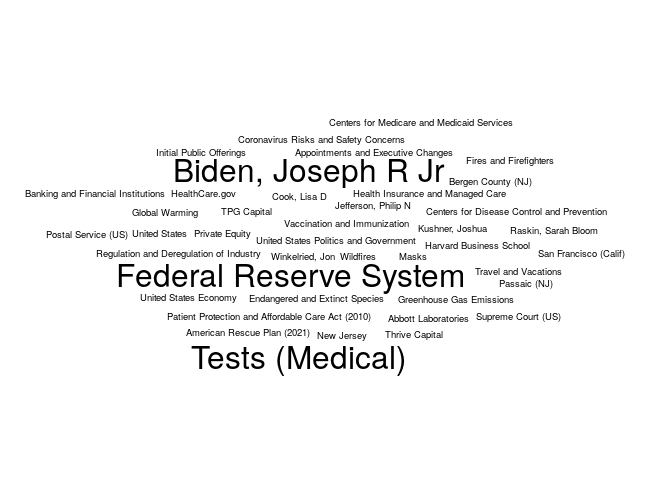
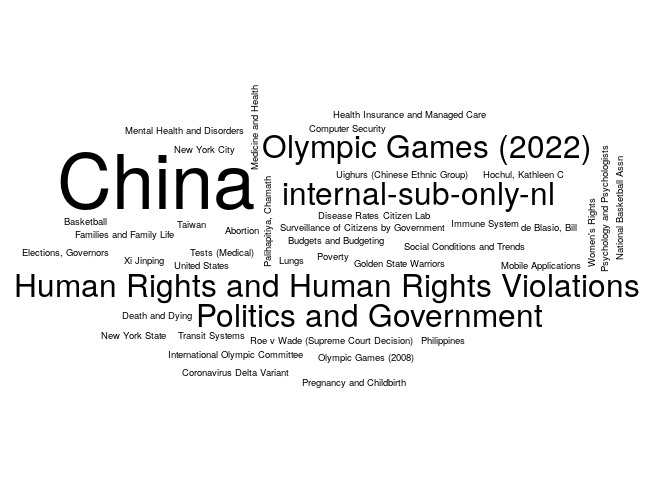
Updating the NYT report

Changed region(s): [[0.0, 0.1875, 0.9688, 0.8125]]

diff --git a/03-nytimes/README.md b/03-nytimes/README.md
@@ -5,7 +5,7 @@ The following is an example of how to use the [NYTimes
 API](https://developer.nytimes.com/) to get a list of articles related
 to a particular term. Here we are searching articles that include the
 term `"health"`, and that were published up to seven days ago since
-2022-01-17.
+2022-01-24.
 
 ``` r
 # Preparing a function to use the GET method with the NYTimes API
@@ -83,25 +83,25 @@ colnames(tab) <- c("Keyword", "# Articles")
 knitr::kable(tab, row.names = FALSE)
 ```
 
-| Keyword                                    | \# Articles |
-|:-------------------------------------------|------------:|
-| Coronavirus (2019-nCoV)                    |          40 |
-| Coronavirus Omicron Variant                |          30 |
-| Biden, Joseph R Jr                         |          20 |
-| Federal Reserve System                     |          20 |
-| Tests (Medical)                            |          20 |
-| Abbott Laboratories                        |          10 |
-| American Rescue Plan (2021)                |          10 |
-| Appointments and Executive Changes         |          10 |
-| Banking and Financial Institutions         |          10 |
-| Bergen County (NJ)                         |          10 |
-| Centers for Disease Control and Prevention |          10 |
-| Centers for Medicare and Medicaid Services |          10 |
-| Cook, Lisa D                               |          10 |
-| Coronavirus Risks and Safety Concerns      |          10 |
-| Endangered and Extinct Species             |          10 |
-| Fires and Firefighters                     |          10 |
-| Global Warming                             |          10 |
-| Greenhouse Gas Emissions                   |          10 |
-| Harvard Business School                    |          10 |
-| Health Insurance and Managed Care          |          10 |
+| Keyword                                  | \# Articles |
+|:-----------------------------------------|------------:|
+| China                                    |          40 |
+| Coronavirus (2019-nCoV)                  |          40 |
+| Coronavirus Omicron Variant              |          20 |
+| Human Rights and Human Rights Violations |          20 |
+| internal-sub-only-nl                     |          20 |
+| Olympic Games (2022)                     |          20 |
+| Politics and Government                  |          20 |
+| Abortion                                 |          10 |
+| Basketball                               |          10 |
+| Budgets and Budgeting                    |          10 |
+| Citizen Lab                              |          10 |
+| Computer Security                        |          10 |
+| Coronavirus Delta Variant                |          10 |
+| de Blasio, Bill                          |          10 |
+| Death and Dying                          |          10 |
+| Disease Rates                            |          10 |
+| Elections, Governors                     |          10 |
+| Families and Family Life                 |          10 |
+| Golden State Warriors                    |          10 |
+| Health Insurance and Managed Care        |          10 |
